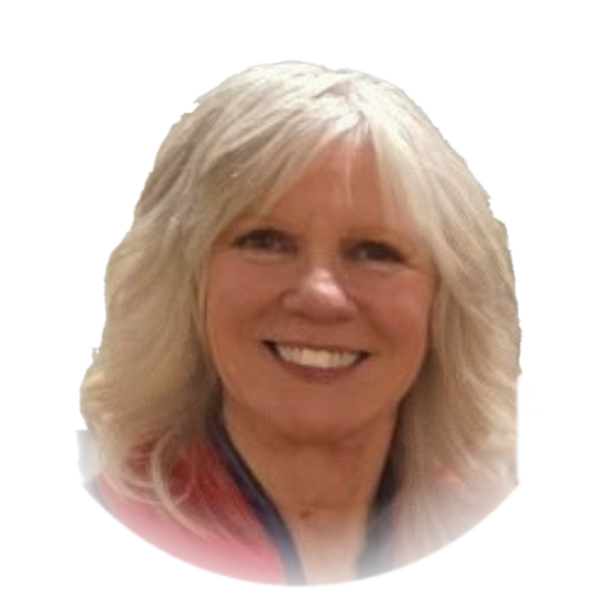
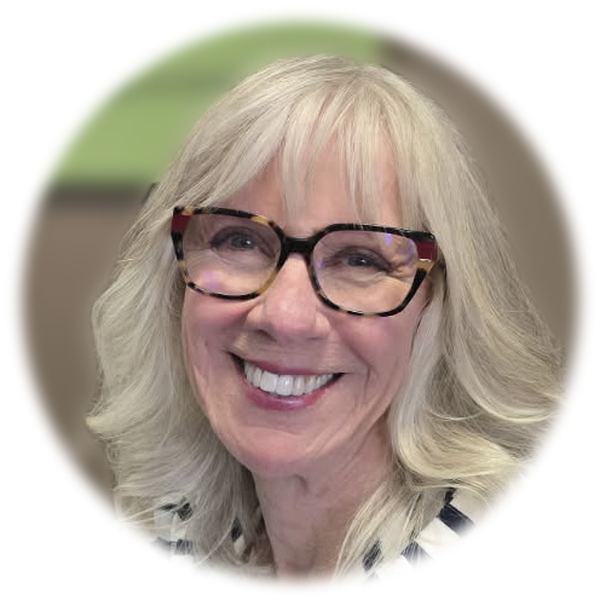
New author photo with blurred background; center Amazon button
Claude-Session: https://claude.ai/code/session_01CDnxyw1ABdvVEESV45hVpo

diff --git a/index.html b/index.html
@@ -41,7 +41,7 @@ body{background:var(--deep);color:var(--white);font-family:var(--serif)}
 .hero-m{display:none}
 .tagline{--x:311;--y:115;--w:422.6;text-align:center;font-weight:400;font-size:calc(var(--u)*50.67);line-height:.9;z-index:2}
 .desc{--x:400;--y:264;--w:325;text-align:center;font-size:calc(var(--u)*23.3);line-height:1.23;z-index:2}
-.btn{--x:370.6;--y:422;--w:252;height:calc(var(--u)*52);display:flex;align-items:center;justify-content:center;gap:calc(var(--u)*16);
+.btn{--x:388;--y:422;--w:252;height:calc(var(--u)*52);display:flex;align-items:center;justify-content:center;gap:calc(var(--u)*16);
   background:linear-gradient(180deg,#ffd876,#f4bb44);color:var(--navy-ink);text-decoration:none;border-radius:calc(var(--u)*5);
   box-shadow:0 calc(var(--u)*4) calc(var(--u)*12) rgba(0,0,0,.35);z-index:3;transition:filter .15s ease}
 .btn:hover{filter:brightness(1.06)}
